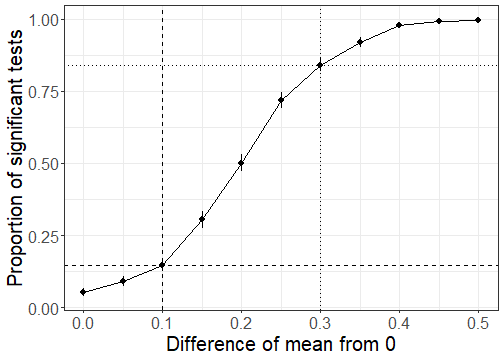
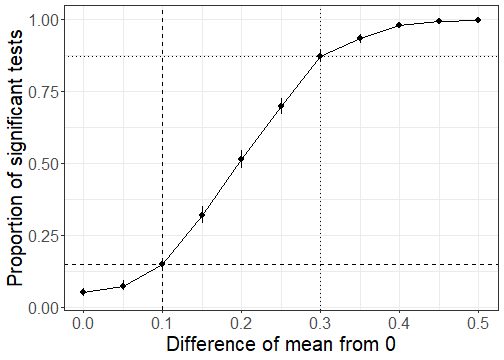
fix images

diff --git a/Week-23---Power-and-Effect-Size.html b/Week-23---Power-and-Effect-Size.html
@@ -24,10 +24,10 @@ class: center, middle, inverse
 # Replicability and reproducibility in psychology
 
 ---
-background-image: url(../images/headlines-repro.png)
+background-image: url(images/headlines-repro.png)
 
 ---
-background-image: url(../images/F1.large.jpg)
+background-image: url(images/F1.large.jpg)
 background-size: contain
 
 ---
@@ -69,13 +69,13 @@ t.test(a, b)
 ## 	Welch Two Sample t-test
 ## 
 ## data:  a and b
-## t = -6.7196, df = 95.053, p-value = 1.338e-09
+## t = -3.6041, df = 97.936, p-value = 0.0004945
 ## alternative hypothesis: true difference in means is not equal to 0
 ## 95 percent confidence interval:
-##  -1.6266187 -0.8846816
+##  -1.0605961 -0.3073724
 ## sample estimates:
-##   mean of x   mean of y 
-## -0.09189134  1.16375879
+## mean of x mean of y 
+## 0.2140856 0.8980699
 ```
 
 ---
@@ -100,7 +100,7 @@ Does a significant effect tell us how likely it is our experimental hypothesis -
 --
 
 .pull-left[
-![](../images/GrumpyNo.png)
+![](images/GrumpyNo.png)
 ]
 
 .pull-right[
@@ -117,7 +117,7 @@ Does a non-significant effect tell us that there is no effect, or that our hypot
 --
 
 .pull-left[
-![](../images/GrumpyNo.png)
+![](images/GrumpyNo.png)
 ]
 .pull-right[
 1) A non-significant effect only tells us that we **failed to reject** the null hypothesis.
@@ -154,7 +154,7 @@ In other words, setting `\(\alpha\)` at .05 means we accept a **false positive r
 # The false-positive rate
 
 .pull-left[
-![](Week-23---POwer-and-Effect-Size_files/figure-html/unnamed-chunk-2-1.png)&lt;!-- --&gt;
+![](Week-23---Power-and-Effect-Size_files/figure-html/unnamed-chunk-2-1.png)&lt;!-- --&gt;
 ]
 
 .pull-right[
@@ -171,7 +171,7 @@ Approx 5% of the p-values of these tests were &lt; .05.
 
 When the null hypothesis is false, p-values lower than our threshold become *more likely*. But it's still not certain we'll get a *significant effect*. 
 .pull-left[
-![](Week-23---POwer-and-Effect-Size_files/figure-html/unnamed-chunk-3-1.png)&lt;!-- --&gt;
+![](Week-23---Power-and-Effect-Size_files/figure-html/unnamed-chunk-3-1.png)&lt;!-- --&gt;
 ]
 .pull-right[
 Here, I simulate data with a mean of 0.15, 1000 times, and test whether it differs from zero.
@@ -180,7 +180,7 @@ Approx 320 tests are significant - a true-positive rate of .32, and a false-nega
 ]
 
 ---
-background-image: url(../images/Type1vsType2.jpg)
+background-image: url(images/Type1vsType2.jpg)
 
 ---
 class: inverse, center, middle
@@ -195,7 +195,7 @@ Also termed *beta*, or `\(\beta\)`, power is the probability of getting a signif
 
 By convention, psychological studies aim for **80% power**.
 
-![](../images/cohen-quote.png)
+![](images/cohen-quote.png)
 
 ---
 # Statistical power and sample size
@@ -203,7 +203,7 @@ By convention, psychological studies aim for **80% power**.
 Sample size is an important factor determining statistical power:
 
 .pull-left[
-![](Week-23---POwer-and-Effect-Size_files/figure-html/unnamed-chunk-4-1.png)&lt;!-- --&gt;
+![](Week-23---Power-and-Effect-Size_files/figure-html/unnamed-chunk-4-1.png)&lt;!-- --&gt;
 ]
 .pull-right[
 Here I simulate the effects of **increasing sample size** on statistical power.
@@ -215,7 +215,7 @@ The **effect size** stays constant - 0.1 difference between means.
 # Statistical power and effect size
 
 .pull-left[
-![](Week-23---POwer-and-Effect-Size_files/figure-html/unnamed-chunk-5-1.png)&lt;!-- --&gt;
+![](Week-23---Power-and-Effect-Size_files/figure-html/unnamed-chunk-5-1.png)&lt;!-- --&gt;
 ]
 
 .pull-right[
@@ -230,7 +230,7 @@ Approx 800 tests are significant - a true-positive rate of .80, and thus a stati
 # Statistical power and effect sizes
 
 .pull-left[
-![](Week-23---POwer-and-Effect-Size_files/figure-html/power-curve-1.png)&lt;!-- --&gt;
+![](Week-23---Power-and-Effect-Size_files/figure-html/power-curve-1.png)&lt;!-- --&gt;
 ]
 .pull-right[
 In this simulation, the general design of the study stays the same - there are 100 participants, we test against zero with a t-test.
@@ -242,12 +242,12 @@ As the effect size increases, the **power** of the study increases.
 # Statistical power and effect sizes
 
 .pull-left[
-![](Week-23---POwer-and-Effect-Size_files/figure-html/unnamed-chunk-6-1.png)&lt;!-- --&gt;
+![](Week-23---Power-and-Effect-Size_files/figure-html/unnamed-chunk-6-1.png)&lt;!-- --&gt;
 ]
 .pull-right[
 The study has approximately 14.7% power to detect a 0.1 difference in means.
 
-But the study also has approximately 84% power to detect a 0.3 difference in means.
+But the study also has approximately 87.1% power to detect a 0.3 difference in means.
 
 Studies have a **power curve**, not a single *power*.
 ]
@@ -312,7 +312,7 @@ How **big** the effect is?
 --
 
 .pull-left[
-![](../images/GrumpyNo.png)
+![](images/GrumpyNo.png)
 ]
 .pull-right[
 P-values tell us *absolutely nothing* about the size of the effect.
@@ -328,7 +328,7 @@ How **important** the effect is?
 
 --
 .pull-left[
-![:scale 70%](../images/Still-NO.jpg)
+![:scale 70%](images/Still-NO.jpg)
 ]
 .pull-right[
 A tiny p-value does not mean the effect is any way *important*.
@@ -360,7 +360,7 @@ Easy to understand and interpret.
 e.g. Usain Bolt ran .12 seconds faster than Yohan Blake.
 ]
 .pull-right[
-![:scale 110%](../images/100m_results_focus.jpg)
+![:scale 110%](images/100m_results_focus.jpg)
 ]
 
 ---
@@ -425,13 +425,13 @@ t.test(a, b)
 ## 	Welch Two Sample t-test
 ## 
 ## data:  a and b
-## t = -6.7196, df = 95.053, p-value = 1.338e-09
+## t = -3.6041, df = 97.936, p-value = 0.0004945
 ## alternative hypothesis: true difference in means is not equal to 0
 ## 95 percent confidence interval:
-##  -1.6266187 -0.8846816
+##  -1.0605961 -0.3073724
 ## sample estimates:
-##   mean of x   mean of y 
-## -0.09189134  1.16375879
+## mean of x mean of y 
+## 0.2140856 0.8980699
 ```
 
 ```r
@@ -439,7 +439,7 @@ t.test(a, b)
 ```
 
 ```
-## [1] -1.343921
+## [1] -0.7208247
 ```
 
 ---
@@ -449,16 +449,16 @@ t.test(a, b)
 
 ---
 # The Facebook study
-![:scale 150%](../images/facebook-article.png)
+![:scale 150%](images/facebook-article.png)
 ---
 # The Facebook study
 
-![:scale 150%](../images/facebook-quote.png)
+![:scale 150%](images/facebook-quote.png)
 
 ---
 # The Facebook study
 
-![:scale 150%](../images/facebook-quote-highlight.png)
+![:scale 150%](images/facebook-quote-highlight.png)
 .large[
 P = .007, *d* = .001. This is an absolutely **tiny** effect size.
 
@@ -474,7 +474,7 @@ class: inverse, center, middle
 # Guess the correlation
 
 .pull-left[
-![](Week-23---POwer-and-Effect-Size_files/figure-html/unnamed-chunk-9-1.png)&lt;!-- --&gt;
+![](Week-23---Power-and-Effect-Size_files/figure-html/unnamed-chunk-9-1.png)&lt;!-- --&gt;
 ]
 
 --
@@ -489,7 +489,7 @@ class: inverse, center, middle
 # Guess the correlation
 
 .pull-left[
-![](Week-23---POwer-and-Effect-Size_files/figure-html/unnamed-chunk-10-1.png)&lt;!-- --&gt;
+![](Week-23---Power-and-Effect-Size_files/figure-html/unnamed-chunk-10-1.png)&lt;!-- --&gt;
 ]
 
 --
@@ -598,9 +598,9 @@ afex::aov_ez(dv = "RT",
 ## 
 ## Response: RT
 ##            Effect    df     MSE          F  ges p.value
-## 1           Block 1, 49 1854.68 272.26 ***  .57  &lt;.0001
-## 2       Viewpoint 1, 49 1576.56       0.93 .004     .34
-## 3 Block:Viewpoint 1, 49 2435.66       0.40 .003     .53
+## 1           Block 1, 49 1656.83 283.70 ***  .53  &lt;.0001
+## 2       Viewpoint 1, 49 2202.02       2.36  .01     .13
+## 3 Block:Viewpoint 1, 49 2217.42       1.41 .008     .24
 ## ---
 ## Signif. codes:  0 '***' 0.001 '**' 0.01 '*' 0.05 '+' 0.1 ' ' 1
 ```
@@ -620,7 +620,7 @@ class: inverse, center, middle
 # So what *does* the p-value tell us?
 
 ---
-background-image: url(../images/DrakeMeme.jpg)
+background-image: url(images/DrakeMeme.jpg)
 
 
 ---
